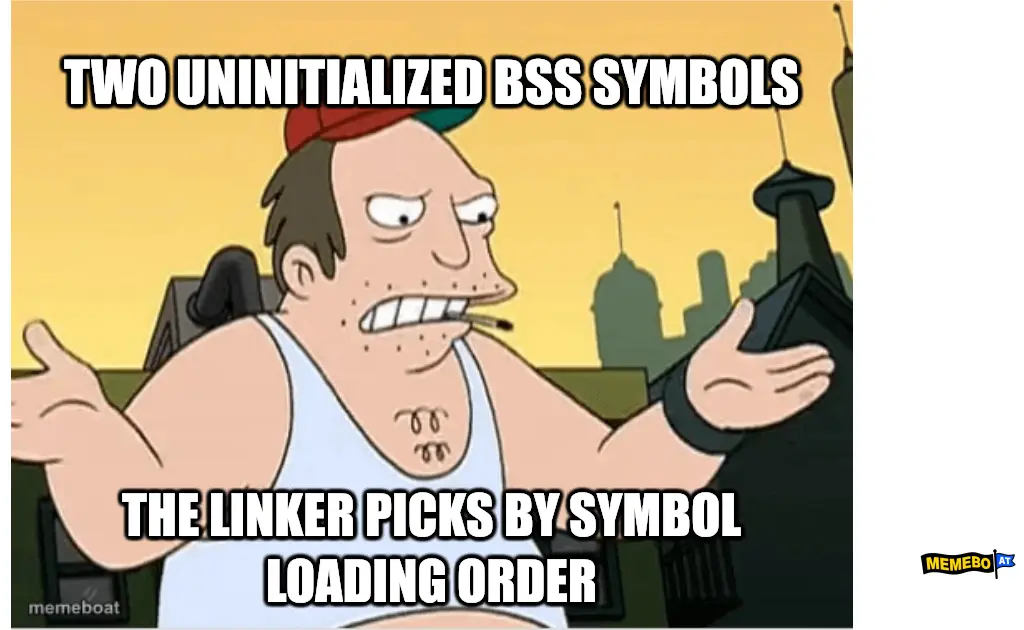
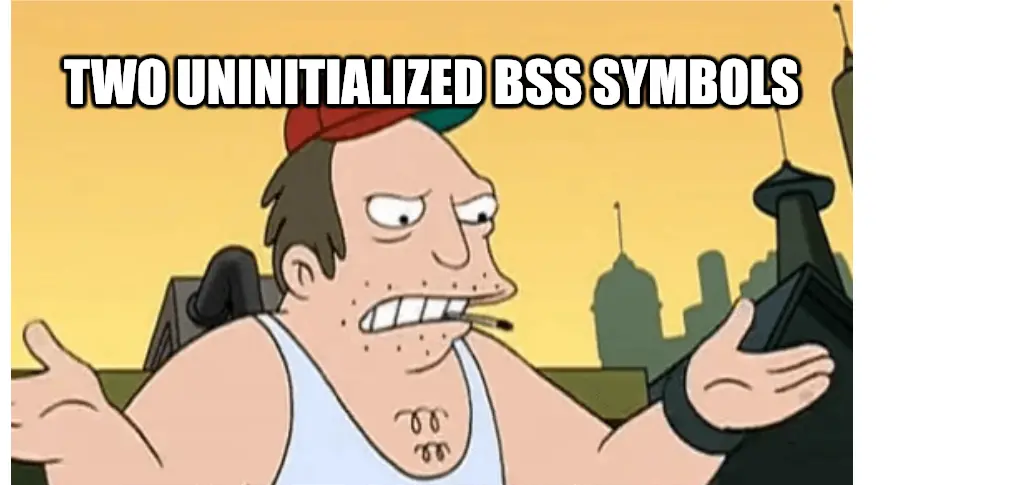
fix(deck): typography, centering, transitions, and content fixes
Mermaid diagrams: all six wrapped in center divs for horizontal
centering. The -toolexec diagram was left-aligned and narrow;
now centered.

Meme images: cropped the baked-in bottom caption text from both
memebo.at images so the slide's caption strip no longer covers
the meme's own text. The slide caption carries the punchline.

Convergence timeline: moved from the otelc section to the open,
where it tells the story of how the ecosystem converged before the
three-layer structure is introduced.

Production evidence: v1 and 20% numbers colored purple for
emphasis.

Signal depth: 'Not every Datadog integration' corrected to 'Not
every Alibaba and Datadog integration has moved to otelc yet. We
will have much more.'

Compile time slide: retitled 'Compile time can reach Go internals!
Dark Magic!'

What it means: reframed as punchline dark with line breaks and
emphasis on each line.

Traces/profiles: reframed as punchline dark with *CPU* emphasis.

Four transition slides added (punchline dark one-liners): 'But it
still has a cost' before uprobe costs, 'And it can reach deep'
before compile-time internals, 'But how does it read a stripped
binary?' before .gopclntab, 'Traces and profiles. Apart.' before
correlation.

eBPF profiler: noted memory profiling is coming, but pprof still
has the edge with more profile types, more granular data, and no
kernel privileges.

Decision table: removed Orchestrion, added injector. The table
now says OBI or injector, otelc, eBPF Profiler.
[…]

diff --git a/talks/without-a-single-line/slides/presentation.md b/talks/without-a-single-line/slides/presentation.md
@@ -81,6 +81,19 @@ The fiftieth inherits gaps.
 
 ---
 
+## A short convergence timeline
+
+| Date | Milestone |
+| --- | --- |
+| Jun 2024 | Elastic's profiler joins OpenTelemetry |
+| Jan 2025 | Alibaba, Datadog, and Quesma form the Go compile-time SIG |
+| 2025 | Beyla becomes OpenTelemetry eBPF Instrumentation |
+| Jul 2026 | `otelc` v1 becomes stable |
+
+The projects did not collapse into one agent. They learned to compose.
+
+---
+
 <!-- _class: vcenter -->
 
 ## How I got here
@@ -192,13 +205,17 @@ The Go team calls this access pattern a "hall of shame," not an instrumentation 
 
 ## Choose where to intervene
 
+<div class="center">
+
 ```mermaid
 flowchart LR
     A[source] --> B[build] --> C[link] --> D[process start] --> E[runtime] --> F[kernel]
-    B -.- |otelc| B
-    D -.- |injector| D
-    F -.- |eBPF| F
+    B -.- otelc
+    D -.- injector
+    F -.- eBPF
 ```
+
+</div>
 
 | Layer | Trade-off |
 | --- | --- |
@@ -247,12 +264,16 @@ Runtime injection is useful, but Go's default static binary leaves less surface 
 
 ## How OBI works
 
+<div class="center">
+
 ```mermaid
 flowchart TD
     A[Go service] -->|uprobes + network probes| B[Linux kernel]
     B -->|events + context| C[OBI DaemonSet]
     C -->|OTLP traces + metrics| D[OpenTelemetry Collector]
 ```
+
+</div>
 
 ---
 
@@ -391,6 +412,13 @@ It leaves log shipping to your existing pipeline. It is not a log exporter.
 
 ---
 
+<!-- _class: punchline dark -->
+<!-- _paginate: false -->
+
+# But it still has a *cost*
+
+---
+
 ## Uprobes have real costs
 
 <div class="columns">
@@ -463,6 +491,8 @@ somehow, it works
 
 ## Three organizations converged upstream
 
+<div class="center">
+
 ```mermaid
 flowchart LR
     A[Datadog Orchestrion] --> D[OpenTelemetry Go compile-time SIG]
@@ -471,28 +501,17 @@ flowchart LR
     D --> E[otelc]
 ```
 
+</div>
+
 `otelc` is a vendor-neutral tool built by the SIG.
 
 Orchestrion remains a production Datadog distribution of the same core idea.
 
 ---
 
-## A short convergence timeline
-
-| Date | Milestone |
-| --- | --- |
-| Jun 2024 | Elastic's profiler joins OpenTelemetry |
-| Jan 2025 | Alibaba, Datadog, and Quesma form the Go compile-time SIG |
-| 2025 | Beyla becomes OpenTelemetry eBPF Instrumentation |
-| Jul 2026 | `otelc` v1 becomes stable |
-
-<br>
-
-The projects did not collapse into one agent. They learned to compose.
-
----
-
 ## `-toolexec` puts otelc before the compiler
+
+<div class="center">
 
 ```mermaid
 flowchart TD
@@ -502,6 +521,8 @@ flowchart TD
     D --> E[binary with instrumentation]
 ```
 
+</div>
+
 ---
 
 ## Production evidence
@@ -509,14 +530,14 @@ flowchart TD
 <div class="columns">
 <div class="center">
 
-<div class="big">v1</div>
+<div class="big" style="color: var(--purple);">v1</div>
 
 Stable upstream tool
 
 </div>
 <div class="center">
 
-<div class="big">20%</div>
+<div class="big" style="color: var(--purple);">20%</div>
 
 Growth in customers adopting Orchestrion-based auto-instrumentation
 
@@ -571,11 +592,18 @@ The trade-off is build ownership, not operating-system access.
 </div>
 </div>
 
-Not every Datadog integration has moved to otelc yet.
+Not every Alibaba and Datadog integration has moved to otelc yet. We will have much more.
 
 ---
 
-## Compile time can reach Go internals
+<!-- _class: punchline dark -->
+<!-- _paginate: false -->
+
+# And it can reach *deep*
+
+---
+
+## Compile time can reach Go internals! Dark Magic!
 
 ###### gls.orchestrion.yml
 
@@ -683,9 +711,16 @@ DD_TRACE_DEBUG=1 \
 
 ---
 
+<!-- _class: punchline dark -->
+<!-- _paginate: false -->
+
 ## What it means
 
-No rebuild. No source change. No kernel version gate. One line.
+# No rebuild
+# No source change
+# No kernel version gate
+
+### *One line.*
 
 ---
 
@@ -698,11 +733,14 @@ No rebuild. No source change. No kernel version gate. One line.
 
 ---
 
+<!-- _class: punchline dark -->
+<!-- _paginate: false -->
+
 ## Traces tell you which request was slow
 
 <br>
 
-# Profiles tell you where the CPU went
+# Profiles tell you where the *CPU* went
 
 ---
 
@@ -721,13 +759,24 @@ Originated as Elastic Universal Profiling and joined OpenTelemetry in June 2024.
 
 ---
 
+<!-- _class: punchline dark -->
+<!-- _paginate: false -->
+
+# But how does it read a *stripped* binary?
+
+---
+
 ## Go stacks survive stripped binaries
+
+<div class="center">
 
 ```mermaid
 flowchart TD
     A[Go binary] -->|.gopclntab| B[OpenTelemetry eBPF Profiler]
     B -->|unwind + symbolize| C[Named Go function stacks]
 ```
+
+</div>
 
 `.gopclntab` remains in fully static, stripped executables because the Go runtime needs it too.
 
@@ -751,6 +800,17 @@ flowchart TD
 | No rebuild | `CAP_BPF` + `CAP_PERFMON` or root |
 | No in-process agent | DaemonSet / Collector distribution |
 | Stripped binaries supported | CPU profiling is the confirmed core signal |
+
+<br>
+
+The eBPF profiler will add memory profiling soon. But `pprof` still has the edge: more profile types, more granular data, and no kernel privileges.
+
+---
+
+<!-- _class: punchline dark -->
+<!-- _paginate: false -->
+
+# Traces and profiles. *Apart.*
 
 ---
 
@@ -778,7 +838,8 @@ threadlocal.schema_version: "go_pprof_labels_v1"
 
 <!-- _class: punchline dark -->
 
-# Compile time sets context.<br>eBPF reads evidence
+# Compile time sets context
+# eBPF reads *evidence*
 
 ### Together, request context reaches profiles
 
@@ -797,11 +858,11 @@ threadlocal.schema_version: "go_pprof_labels_v1"
 
 | Constraint | Prefer |
 | --- | --- |
-| No rebuild window | OBI |
-| Non-Linux target | otelc / Orchestrion |
+| No rebuild window | OBI or injector |
+| Non-Linux target | otelc |
 | Mixed-language boundary coverage | OBI |
-| Rich Go library semantics | otelc / Orchestrion |
-| No privileged runtime agent | otelc / Orchestrion |
+| Rich Go library semantics | otelc |
+| No privileged runtime agent | otelc or injector |
 | Whole-node CPU profiles | eBPF Profiler |
 | Request-correlated profiles | Compile-time context + profiler |
 
@@ -809,16 +870,23 @@ threadlocal.schema_version: "go_pprof_labels_v1"
 
 ## A practical production combination
 
+<div class="center">
+
 ```mermaid
 flowchart TD
-    subgraph Build pipeline
-        A[otelc / Orchestrion] -->|semantic spans, metrics, logs, pprof labels|
+    subgraph Build [Build pipeline]
+        A[otelc]
     end
-    subgraph Linux cluster
-        B[OBI] -->|boundaries, mixed-language coverage|
-        C[eBPF Profiler] -->|whole-node CPU profiles|
+    subgraph Linux [Linux cluster]
+        B[OBI]
+        C[eBPF Profiler]
     end
+    A -->|semantic spans, metrics, logs, pprof labels| OUT[Your backend]
+    B -->|boundaries, mixed-language coverage| OUT
+    C -->|whole-node CPU profiles| OUT
 ```
+
+</div>
 
 Start with the constraint you cannot change. Add the other layer when its signal earns the cost.
 
@@ -868,15 +936,15 @@ Go ships no built-in USDT probes today. The proof of concept shows what a stable
 
 <br>
 
-Describe the bug in words. The agent places the probe and reads production evidence.
+Describe the bug in words. The agent places the probe and reads *production evidence*.
 
-No source edit. No restart. No redeploy.
+No source edit. No restart. No *redeploy*.
 
 <br>
 
 Bits Live Debugger does this today, in preview.
 
-Same move as the opening joke, except now the agent has the framework.
+Same move as the opening joke, except now the agent has the *framework*.
 
 ---
 
@@ -886,9 +954,9 @@ Same move as the opening joke, except now the agent has the framework.
 
 <br>
 
-Start from the constraint you cannot change.
+Start from the *constraint* you cannot change.
 
-Add a layer only when its signal pays for its operational cost.
+Add a layer only when its *signal* pays for its *operational cost*.
 
 ---
 
@@ -913,14 +981,12 @@ For more agent skills for instrumenting Go applications, see [github.com/ollygar
 
 ## Get involved in the SIGs
 
-[github.com/open-telemetry/community](https://github.com/open-telemetry/community) is the index for every SIG's calendar and notes.
+[github.com/open-telemetry/community](https://github.com/open-telemetry/community) has every SIG's calendar, notes, and channels.
 
 - Go Compile-Time Instrumentation (`otelc`)
 - eBPF Instrumentation (OBI)
 - Injector
 - Profiling
-
-The confirmed channel is **`#otel-ebpf-instrumentation`**.
 
 ---
 

diff --git a/talks/without-a-single-line/speaker-notes.md b/talks/without-a-single-line/speaker-notes.md
@@ -1019,16 +1019,14 @@ Do not imply the QR opens zeroins.
 **SAY**
 
 If you want to help build this, get involved in the SIGs.
-github.com/open-telemetry/community is the index for every SIG's calendar and
-notes.
+github.com/open-telemetry/community has every SIG's calendar, notes, and
+channels.
 
 Go Compile-Time Instrumentation. eBPF Instrumentation. The Injector. Profiling.
 
-The confirmed channel is hash otel-ebpf-instrumentation.
-
 **DO**
 
-Name only the confirmed channel. Do not invent the others.
+Point to the community repo. All channels are listed there.
 
 ---
 
